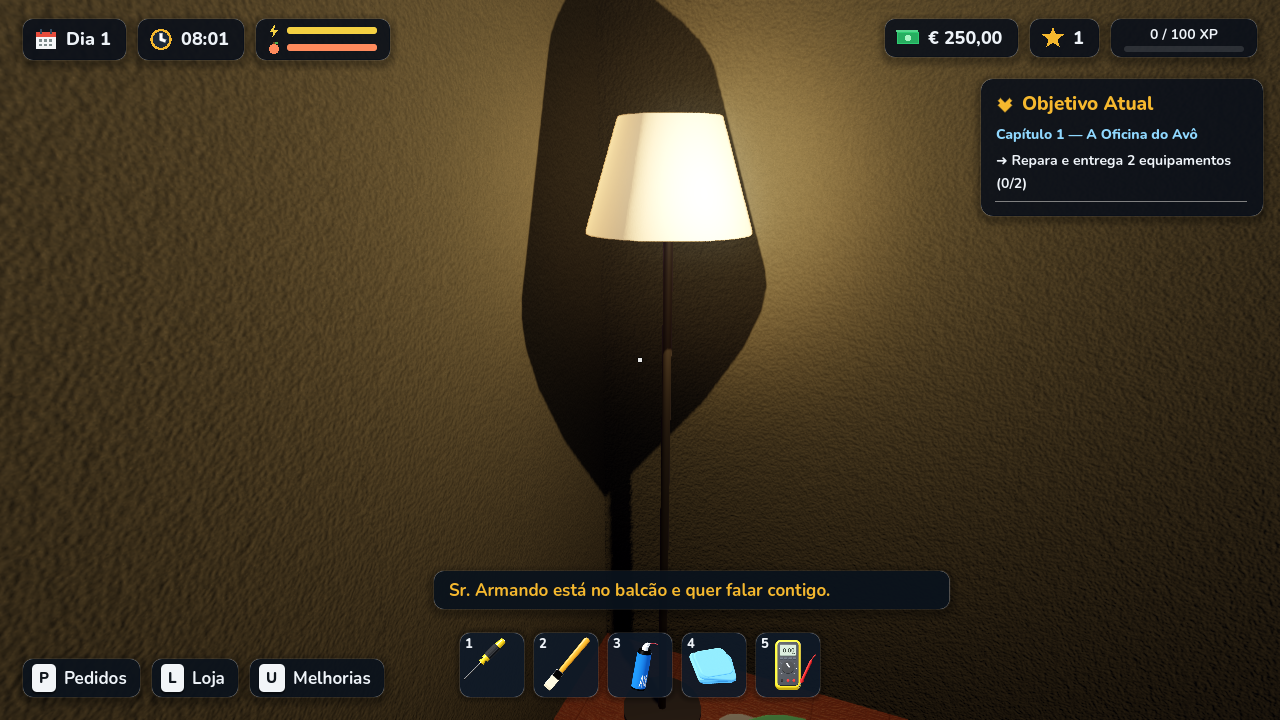
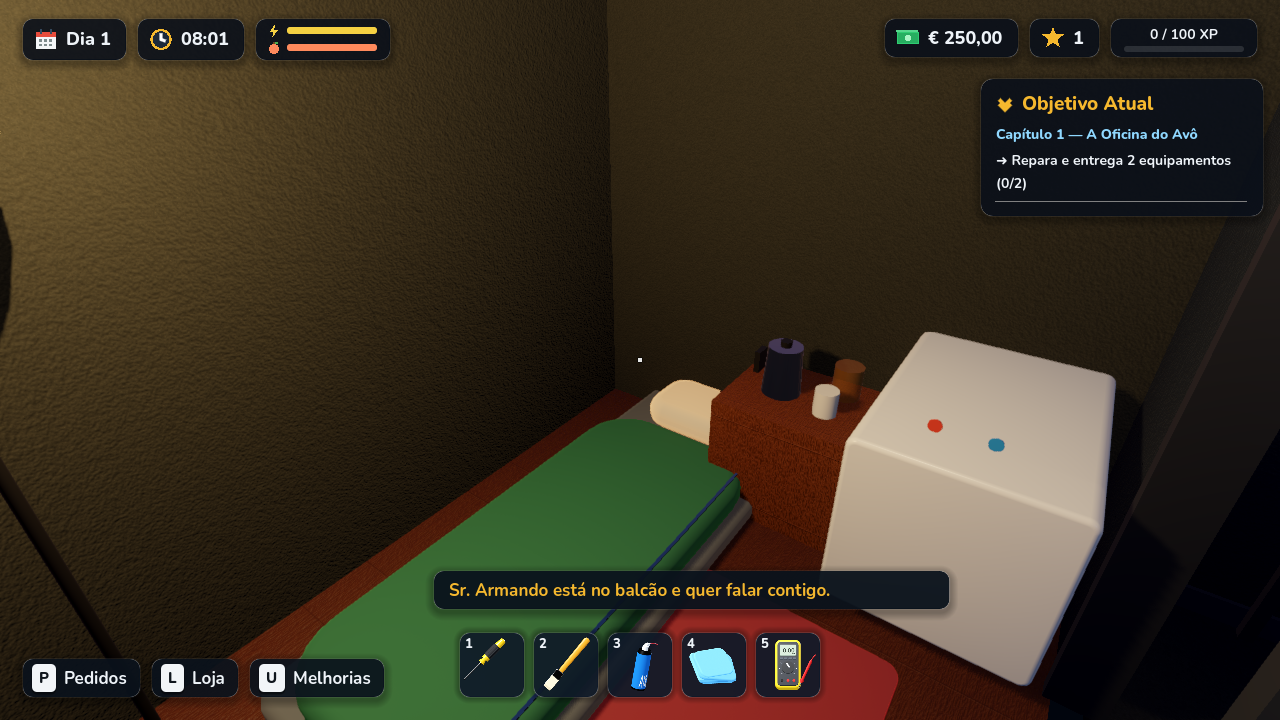
Back room screenshot, seated view, README v1.2
Claude-Session: https://claude.ai/code/session_01VGy18s9vveN9vGJKbMUZve

diff --git a/README.md b/README.md
@@ -1,4 +1,4 @@
-# Fix & Flip Tech — v1.1
+# Fix & Flip Tech — v1.2
 
 Simulador de oficina de eletrónica em **Godot 4** (Forward+). Compra equipamentos avariados, repara-os passo a passo com as mãos (de luva) e ferramentas reais, e revende com lucro.
 
@@ -60,6 +60,21 @@ Os clientes entram pela porta da loja, fazem fila no balcão e esperam com um **
 - **Clientes calmos no início**: nos primeiros capítulos só há um trabalho de cada vez, e o cliente seguinte chega depois de entregares.
 - **Personagens mais realistas**: corpo com proporções humanas, joelhos e cotovelos, mãos com dedos, rosto com nariz, orelhas, íris colorida, pestanas e piscar de olhos, e roupa variada (camisa, hoodie, casaco).
 
+## Novidades v1.2
+
+- **Pausa (Esc)** com Continuar, Guardar, **Definições no próprio jogo** (volumes de música e efeitos, sensibilidade, qualidade gráfica, idioma) e Sair para o menu.
+- **3 ranhuras de gravação**: Novo jogo e Carregar mostram 3 ranhuras com dia, dinheiro e capítulo. Antes de escrever por cima de uma ranhura o jogo pede confirmação. O save antigo é migrado para a ranhura 1.
+- **Caixa registadora de loja moderna** à direita do balcão, virada para ti: gaveta com tabuleiros de notas, ecrã tátil inclinado, visor para o cliente e impressora de talões.
+- **Telefone antigo mais percetível**: auscultador curvo com bocal e auricular, garfo com pinos, contactos de latão visíveis e uma animação de levantar o auscultador.
+- **Arrumar a oficina (G)**: olha para uma ferramenta, decoração ou objeto, carrega **G** para lhe pegar e move-o pela bancada, pelo balcão ou pela parede. Roda do rato ou **R** para rodar, clique ou **G** para pousar. As posições ficam gravadas.
+- **Decorações (separador nas Melhorias)**: posters, gato de néon, relógio de parede com horas reais do jogo, luzes de fio, planta grande, tapete, candeeiro de lava, robô e cato.
+- **Quarto das traseiras**: porta na parede esquerda. Tem saco-cama, frigorífico com snacks e chaleira. Ao fim do dia fechas a loja e dormes até ao dia seguinte.
+- **Energia e fome**: as duas barras aparecem no HUD. A energia recupera com café (chaleira ou máquina de café) e a descansar. A fome recupera com snacks do frigorífico. Com pouca energia andas mais devagar e, exausto, já não consegues reparar.
+- **Sentar no banco**: há bancos atrás do balcão e junto à bancada. Sentado, o tempo passa 4× mais depressa e recuperas energia enquanto esperas por clientes.
+- **Campainha do balcão**: toca quando quiseres (plim plim!).
+- **Carteiro de boné** que entra pela porta com as encomendas e as deixa na prateleira «Receção».
+- **Ritmo de clientes**: os clientes já não esperam que acabes o trabalho anterior. Chegam um ou dois de cada vez, com intervalos irregulares, e o número de pedidos abertos sobe com os capítulos.
+
 ## Idiomas
 
 Português e English: Definições → Idioma / Language.
@@ -79,7 +94,10 @@ Português e English: Definições → Idioma / Language.
 | Clique esquerdo | Usar ferramenta / mão no ponto assinalado |
 | Clique direito + arrastar | Rodar a vista (na reparação) |
 | Roda do rato | Zoom (na reparação) |
-| Esc | Voltar / pausa |
+| G | Pegar e mover um objeto (arrumar a oficina) |
+| R / roda do rato | Rodar o objeto que estás a mover |
+| E (no banco, saco-cama, frigorífico, café, campainha) | Sentar, dormir, comer, beber, tocar |
+| Esc | Voltar / pausa (com definições) |
 
 ## Reparações
 
